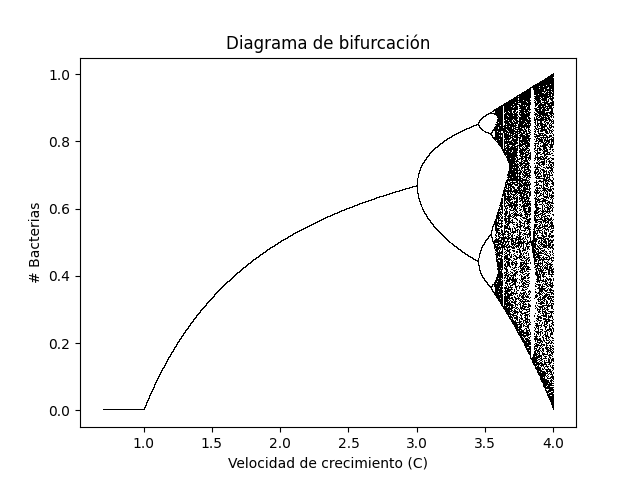
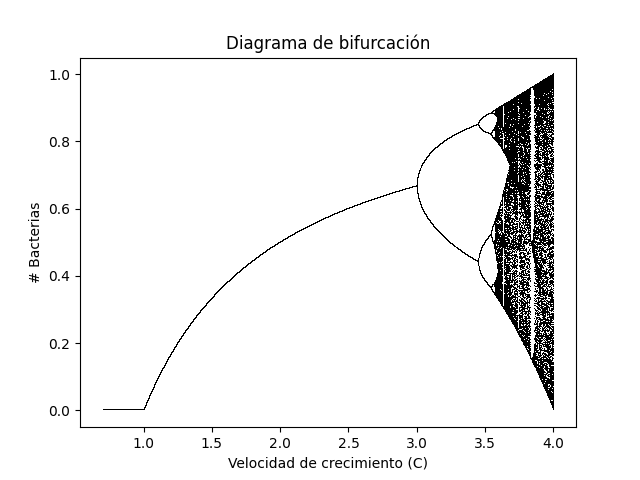
Added even more resolution to bifurcation/main.py

Changed region(s): [[0.7812, 0.1875, 0.875, 0.8125]]

diff --git a/bifurcation/main.py b/bifurcation/main.py
@@ -1,6 +1,6 @@
 import matplotlib.pyplot as plt
 import numpy as np
-S=np.linspace(0.7,4,160000)
+S=np.linspace(0.7,4,240000)
 
 X = []
 C = []
